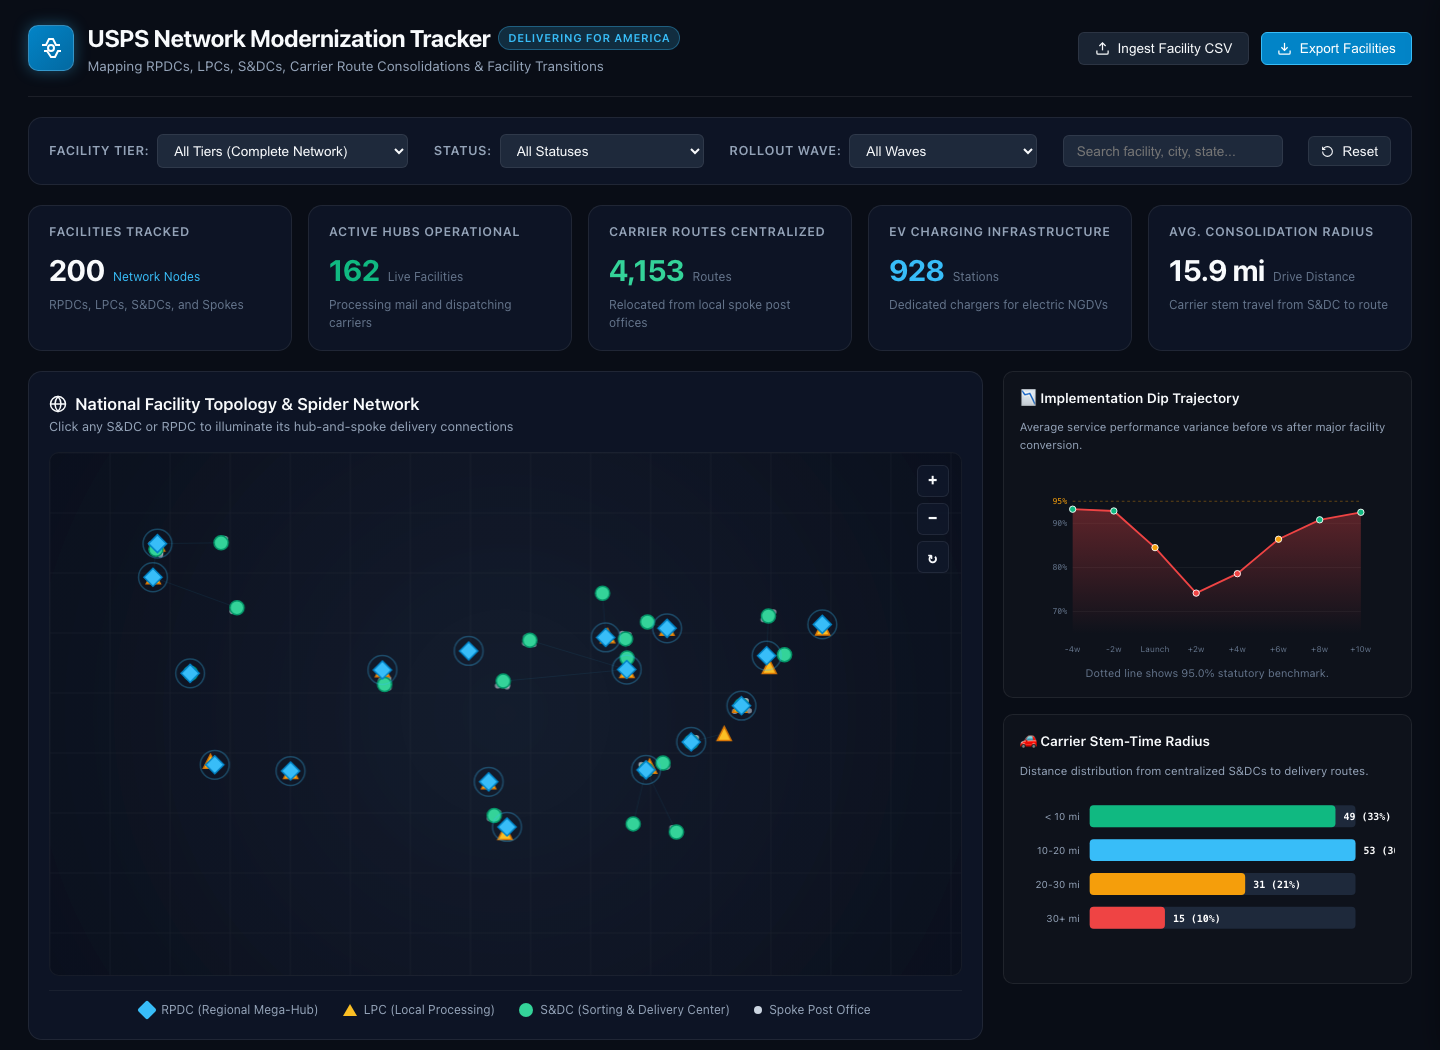
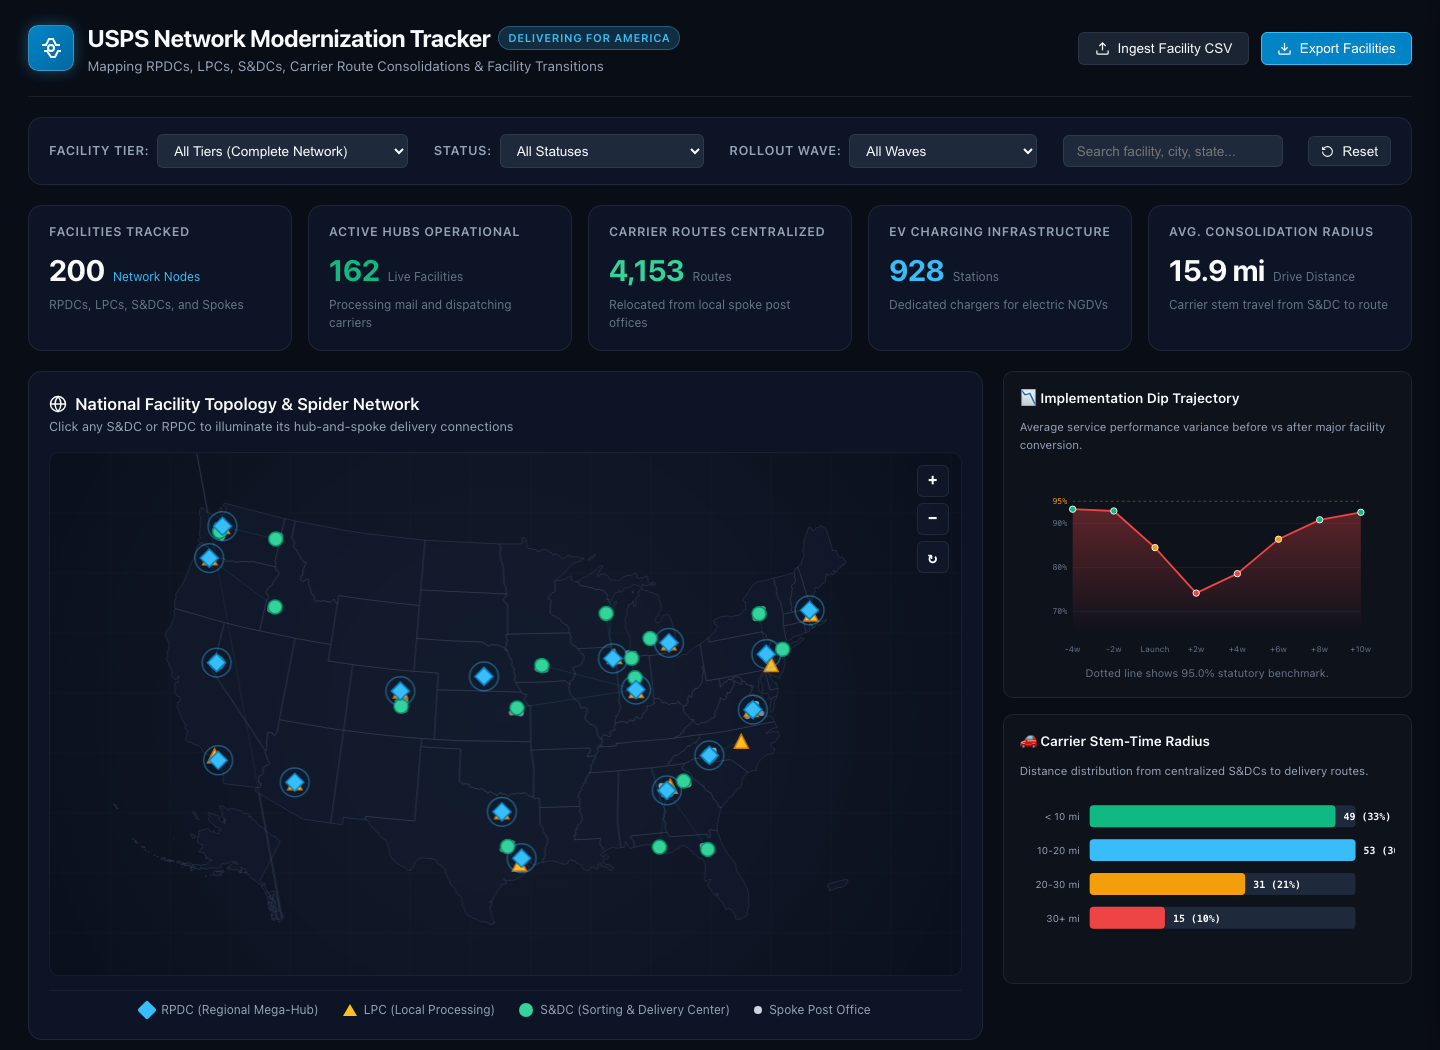
Fix map boundaries: Add US state GeoJSON boundaries and Albers projection

diff --git a/js/network_map.js b/js/network_map.js
@@ -1,6 +1,7 @@
 /**
  * USPS DFA Tracker - Interactive Network Map Visualizer
- * High-performance Canvas renderer displaying multi-tier facility nodes and hub-and-spoke spider lines.
+ * High-performance Canvas renderer displaying US state geographic boundaries,
+ * multi-tier facility nodes, and dynamic hub-and-spoke spider connections.
  */
 
 export class NetworkMap {
@@ -12,6 +13,7 @@ export class NetworkMap {
 
     this.facilities = [];
     this.connections = [];
+    this.geoData = null;
     this.selectedFacility = null;
     this.hoveredFacility = null;
 
@@ -22,9 +24,31 @@ export class NetworkMap {
     this.isDragging = false;
     this.dragStart = { x: 0, y: 0 };
 
+    // Standard Albers projection parameters for United States
+    this.phi1 = (29.5 * Math.PI) / 180;
+    this.phi2 = (45.5 * Math.PI) / 180;
+    this.phi0 = (37.5 * Math.PI) / 180;
+    this.lambda0 = (-96.0 * Math.PI) / 180;
+
+    this.n = 0.5 * (Math.sin(this.phi1) + Math.sin(this.phi2));
+    this.c = Math.cos(this.phi1) ** 2 + 2 * this.n * Math.sin(this.phi1);
+    this.rho0 = Math.sqrt(this.c - 2 * this.n * Math.sin(this.phi0)) / this.n;
+
     if (this.canvas) {
       this.setupEventListeners();
       this.resize();
+    }
+  }
+
+  async init() {
+    try {
+      const res = await fetch('data/us_states.json');
+      if (res.ok) {
+        this.geoData = await res.json();
+        this.render();
+      }
+    } catch (e) {
+      console.warn("Could not load us_states.json boundary data:", e);
     }
   }
 
@@ -66,24 +90,49 @@ export class NetworkMap {
     this.render();
   }
 
-  // Convert lat/lon to Canvas coordinate (Albers-like bounding box: Lon -126 to -66, Lat 24 to 50)
+  /**
+   * Albers Equal-Area Conic projection for the United States with inset support.
+   */
   project(lat, lon) {
-    const w = this.canvas.width / window.devicePixelRatio;
-    const h = this.canvas.height / window.devicePixelRatio;
+    const phi = (lat * Math.PI) / 180;
+    const lam = (lon * Math.PI) / 180;
+    const theta = this.n * (lam - this.lambda0);
+    let term = this.c - 2 * this.n * Math.sin(phi);
+    if (term < 0) term = 0;
+    const rho = Math.sqrt(term) / this.n;
 
-    const padX = w * 0.08;
-    const padY = h * 0.1;
-    const plotW = w - (padX * 2);
-    const plotH = h - (padY * 2);
+    let normX = rho * Math.sin(theta);
+    let normY = -(this.rho0 - rho * Math.cos(theta)); // Screen Y (north is negative Y)
 
-    let x = ((lon - (-125)) / (125 - 66)) * plotW + padX;
-    let y = ((50 - lat) / (50 - 24)) * plotH + padY;
+    // Inset handling for Alaska, Hawaii, and Puerto Rico
+    if (lon < -130 && lat > 50) {
+      // Alaska
+      normX = (normX - (-0.45)) * 0.35 - 0.28;
+      normY = (normY - (-0.48)) * 0.35 + 0.16;
+    } else if (lon < -150 && lat < 25) {
+      // Hawaii
+      normX = (normX - (-0.40)) * 0.8 - 0.16;
+      normY = (normY - (0.15)) * 0.8 + 0.18;
+    } else if (lat < 20 && lon > -70) {
+      // Puerto Rico
+      normX = (normX - (0.42)) * 0.8 + 0.28;
+      normY = (normY - (0.28)) * 0.8 + 0.18;
+    }
 
-    // Apply pan & zoom
-    x = (x - w / 2) * this.scale + w / 2 + this.panX;
-    y = (y - h / 2) * this.scale + h / 2 + this.panY;
+    const dpr = window.devicePixelRatio || 1;
+    const w = this.canvas.width / dpr;
+    const h = this.canvas.height / dpr;
 
-    return { x, y };
+    const pad = 35;
+    const scaleFactor = Math.min((w - pad * 2) / 0.74, (h - pad * 2) / 0.48);
+
+    const baseX = w / 2 + (normX - (-0.0078)) * scaleFactor;
+    const baseY = h / 2 + (normY - (-0.0208)) * scaleFactor;
+
+    const finalX = (baseX - w / 2) * this.scale + w / 2 + this.panX;
+    const finalY = (baseY - h / 2) * this.scale + h / 2 + this.panY;
+
+    return { x: finalX, y: finalY };
   }
 
   setupEventListeners() {
@@ -155,13 +204,16 @@ export class NetworkMap {
     ctx.scale(dpr, dpr);
     ctx.clearRect(0, 0, w, h);
 
-    // Draw stylized US map outline reference grid
+    // 1. Draw subtle background coordinate grid
     this.drawBackgroundGrid(ctx, w, h);
 
-    // Draw active Hub-and-Spoke Spider lines
+    // 2. Draw official US State geographic boundaries and landmass fills
+    this.drawStateBoundaries(ctx);
+
+    // 3. Draw active Hub-and-Spoke Spider lines
     this.drawConnections(ctx);
 
-    // Draw facility nodes by tier (Spokes -> LPCs -> S&DCs -> RPDCs)
+    // 4. Draw facility nodes by tier (Spokes -> LPCs -> S&DCs -> RPDCs)
     const tierOrder = ['SPOKE', 'LPC', 'S&DC', 'RPDC'];
     tierOrder.forEach(tier => {
       this.facilities.filter(f => f.type === tier).forEach(f => {
@@ -173,10 +225,9 @@ export class NetworkMap {
   }
 
   drawBackgroundGrid(ctx, w, h) {
-    ctx.strokeStyle = "rgba(255, 255, 255, 0.03)";
+    ctx.strokeStyle = "rgba(255, 255, 255, 0.02)";
     ctx.lineWidth = 1;
 
-    // Grid lines
     for (let x = 0; x < w; x += 60) {
       ctx.beginPath();
       ctx.moveTo(x, 0);
@@ -191,10 +242,44 @@ export class NetworkMap {
     }
   }
 
+  drawStateBoundaries(ctx) {
+    if (!this.geoData || !this.geoData.features) return;
+
+    ctx.save();
+
+    // Fill each state with dark glassmorphism styling
+    ctx.fillStyle = "rgba(18, 26, 44, 0.65)";
+    ctx.strokeStyle = "rgba(71, 85, 105, 0.35)"; // subtle state border
+    ctx.lineWidth = 1.0;
+
+    this.geoData.features.forEach(feat => {
+      const geom = feat.geometry;
+      if (!geom) return;
+
+      const polygons = geom.type === 'Polygon' ? [geom.coordinates] : geom.coordinates;
+
+      polygons.forEach(poly => {
+        poly.forEach(ring => {
+          if (!ring.length) return;
+          ctx.beginPath();
+          ring.forEach((pt, idx) => {
+            const coords = this.project(pt[1], pt[0]);
+            if (idx === 0) ctx.moveTo(coords.x, coords.y);
+            else ctx.lineTo(coords.x, coords.y);
+          });
+          ctx.closePath();
+          ctx.fill();
+          ctx.stroke();
+        });
+      });
+    });
+
+    ctx.restore();
+  }
+
   drawConnections(ctx) {
     if (!this.connections.length) return;
 
-    // If an S&DC or RPDC is selected, highlight its connections
     const activeHubId = this.selectedFacility ? this.selectedFacility.facility_id : null;
 
     this.connections.forEach(conn => {
@@ -213,11 +298,11 @@ export class NetworkMap {
       ctx.lineTo(p2.x, p2.y);
 
       if (isConnectedToActive) {
-        ctx.strokeStyle = "rgba(56, 189, 248, 0.85)";
+        ctx.strokeStyle = "rgba(56, 189, 248, 0.9)";
         ctx.lineWidth = 2.5;
         ctx.setLineDash([4, 3]);
       } else {
-        ctx.strokeStyle = "rgba(56, 189, 248, 0.08)";
+        ctx.strokeStyle = "rgba(56, 189, 248, 0.12)";
         ctx.lineWidth = 1;
         ctx.setLineDash([]);
       }
@@ -254,7 +339,7 @@ export class NetworkMap {
       // Outer glow pulse
       ctx.beginPath();
       ctx.arc(0, 0, size * 1.6, 0, Math.PI * 2);
-      ctx.strokeStyle = "rgba(56, 189, 248, 0.3)";
+      ctx.strokeStyle = "rgba(56, 189, 248, 0.4)";
       ctx.lineWidth = 1.5;
       ctx.stroke();
 

diff --git a/js/app.js b/js/app.js
@@ -37,6 +37,7 @@ class DFATrackerApp {
     this.map = new NetworkMap('networkCanvas', 'networkTooltip', (facility) => {
       this.handleSelectFacility(facility);
     });
+    await this.map.init();
 
     this.inspector = new FacilityInspector('facilityDrawer', 'drawerCloseBtn', this.loader, (fac) => {
       this.handleSelectFacility(fac);

diff --git a/test_tracker.py b/test_tracker.py
@@ -28,6 +28,7 @@ def run_tests():
         "js/data_loader.js",
         "data/facilities.json",
         "data/facilities.csv",
+        "data/us_states.json",
         "serve.py",
         "README.md"
     ]
